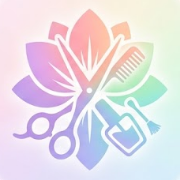
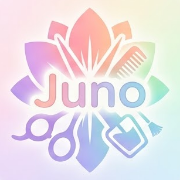
v04.10.3 — бренд Juno: іконка з написом Juno скрізь (PWA, maskable, apple-touch, фавікон, запасний значок салону)
Claude-Session: https://claude.ai/code/session_01F5x8mQ4ZW74JYN9AP9pVdP

diff --git a/src/salon/ChatTab.jsx b/src/salon/ChatTab.jsx
@@ -12,7 +12,7 @@ export default function ChatTab({ bookings, initialMaster, unread }) {
   const mids = useMemo(() => [...new Set(bookings.map((b) => b.masterId).filter(Boolean))], [bookings])
   const nameOf = (id) => masters.find((m) => m.id === id)?.name || 'Майстер'
   if (open) return <Thread masterId={open.masterId} title={open.masterId ? nameOf(open.masterId) : profile.name || 'Салон'} onBack={() => setOpen(null)} />
-  const rows = [{ key: 'salon', masterId: null, title: profile.name || 'Салон', sub: 'Адміністратор салону', icon: '💈', photo: profile.logo }, ...mids.map((id) => ({ key: id, masterId: id, title: nameOf(id), sub: 'Ваш майстер', photo: masters.find((m) => m.id === id)?.photo, name: nameOf(id) }))]
+  const rows = [{ key: 'salon', masterId: null, title: profile.name || 'Салон', sub: 'Адміністратор салону', icon: true, photo: profile.logo || '/icon-192.png' }, ...mids.map((id) => ({ key: id, masterId: id, title: nameOf(id), sub: 'Ваш майстер', photo: masters.find((m) => m.id === id)?.photo, name: nameOf(id) }))]
   return (
     <div>
       {rows.map((r) => (

diff --git a/src/salon/Public.jsx b/src/salon/Public.jsx
@@ -23,7 +23,7 @@ export default function Public() {
   return (
     <div style={{ height: '100%', overflowY: 'auto', paddingBottom: 'calc(96px + env(safe-area-inset-bottom,0px))' }}>
       <div style={{ padding: 'calc(28px + env(safe-area-inset-top,0px)) 20px 22px', textAlign: 'center', background: 'linear-gradient(160deg,color-mix(in srgb,var(--accent) 30%,transparent),transparent)' }}>
-        {profile.logo ? <Avatar url={profile.logo} name={profile.name} size={84} radius={24} style={{ margin: '0 auto' }} /> : <div style={{ fontSize: 46 }}>💈</div>}
+        <Avatar url={profile.logo || '/icon-192.png'} name={profile.name} size={84} radius={24} style={{ margin: '0 auto' }} />
         <div style={{ fontSize: 24, fontWeight: 900, marginTop: 4 }}>{profile.name}</div>
         {profile.about && <div style={{ fontSize: 14, color: 'var(--dim)', marginTop: 6, lineHeight: 1.5 }}>{profile.about}</div>}
         <div style={{ display: 'flex', gap: 8, justifyContent: 'center', flexWrap: 'wrap', marginTop: 12 }}>

diff --git a/src/version.js b/src/version.js
@@ -1,1 +1,1 @@
-export const APP_VERSION = "v04.10.2";
+export const APP_VERSION = "v04.10.3";
